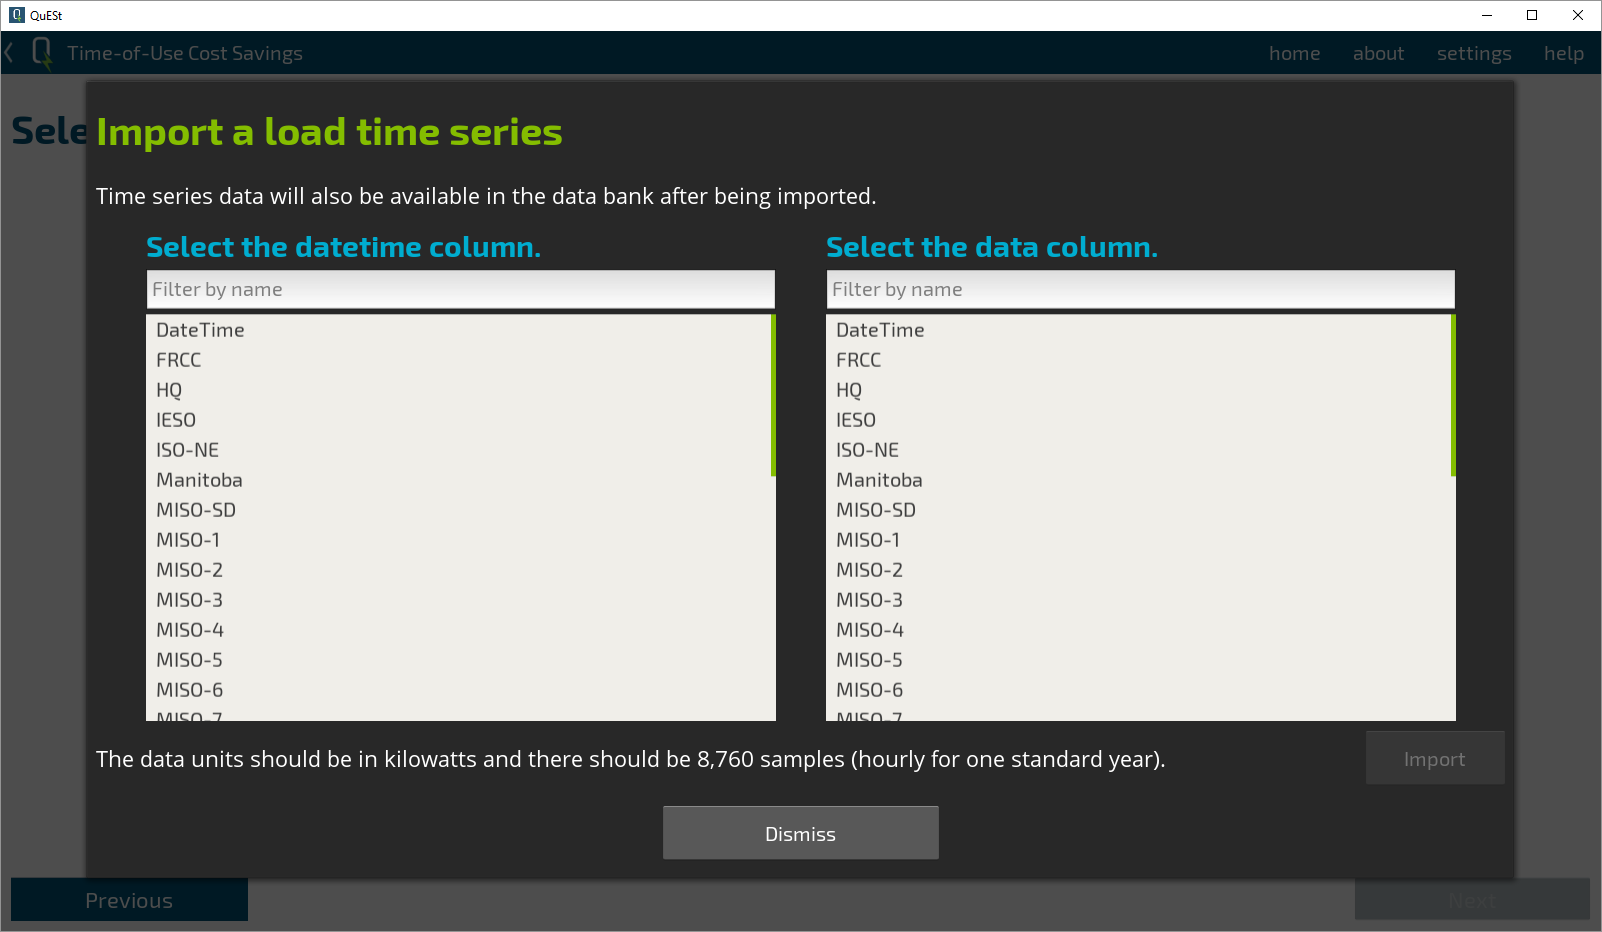
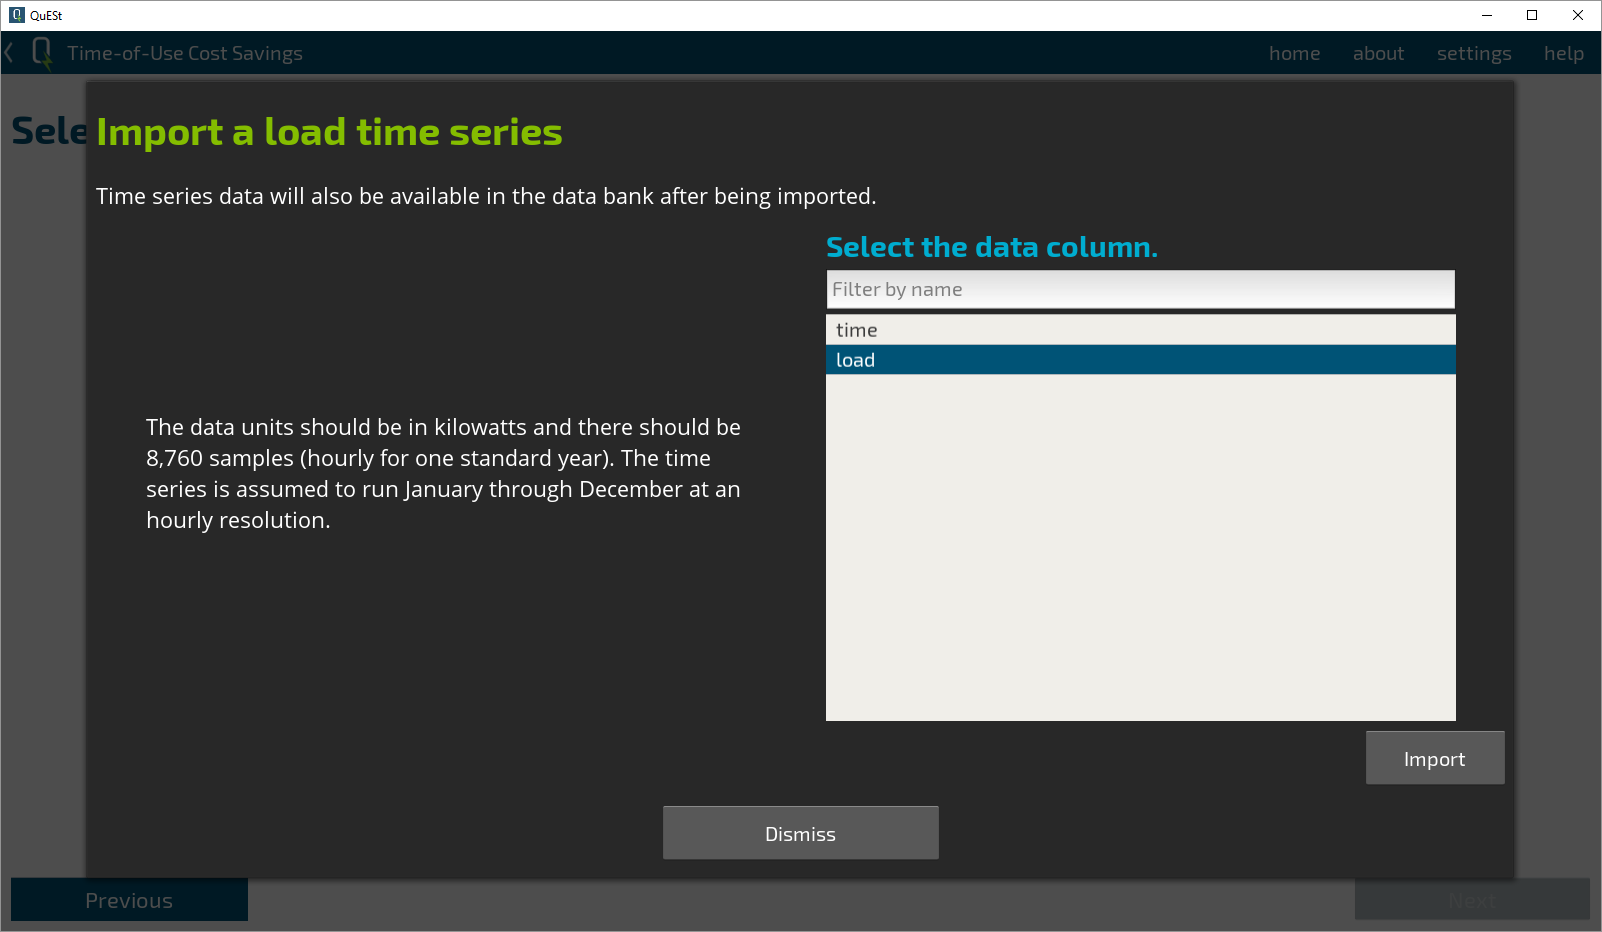
Updated changelog and readme for 1.2.f

diff --git a/main.py b/main.py
@@ -150,7 +150,7 @@ class AboutScreen(ModalView):
             elif value == 'sandia':
                 webbrowser.open('http://sandia.gov/')
         
-        version_statement = 'QuESt v1.2.f \n 2020.01.08'
+        version_statement = 'QuESt v1.2.f \n 2020.01.17'
 
         developed_by = '{app_name} is developed by the {ess} and {espr} departments at {sandia}.'.format(app_name=APP_NAME, ess=_ref_link('Energy Storage Technology and Systems', 'sandia-ess'), espr=_ref_link('Electric Power Systems Research', 'sandia-espr'), sandia=_ref_link('Sandia National Laboratories', 'sandia'))
 

diff --git a/README.md b/README.md
@@ -5,7 +5,7 @@
 
 Current release version: 1.2.f
 
-Release date: 01/08/20
+Release date: January 17, 2020
 
 ## Contact
 For issues and feedback we would appreciate it if you could use the "Issues" feature of this repository. This helps others join the discussion and helps us keep track of and document issues.
@@ -81,14 +81,8 @@ You can find the executable version with each release in the [**Releases**](http
 #### OSX, Linux
 Currently, we do not offer executable packages of QuESt for OSX or Linux operating systems. They are possible to package but we have not implemented those packaging processes yet. Installing from source code is an option.
 
-#### Solvers compatible with Pyomo
-When running the executable version of QuESt, a solver compatible for Pyomo is required to be installed and on your system path. Here are a few examples:
-
-##### Installing GLPK (for Windows)
-1. Download and extract the executables for Windows linked [here](http://winglpk.sourceforge.net/).
-2. The glpk_*.dll and glpsol.exe files are in the `w32` and `w64` subdirectories for 32-Bit and 64-Bit Windows, respectively. Select the pair for the appropriate version of Windows that you are using. You can place them in the same directory as the QuESt executable. 
-   * Alternatively, you can place those files to the `C:\windows\system32` directory in order to have them in your system path. This will make GLPK available for the rest of your system instead of just for QuESt.
-   * (When placing the files in your system path) Try running the command ``glpsol`` in the command prompt (Windows) or terminal (OSX). If you receive a message other than something like "command not found," it means the solver is successfully installed.
+#### Solvers
+When running the executable version of QuESt, a solver compatible for Pyomo is still required to be installed and on your system path. Please refer to the [solvers](#install-solvers) section for details.
 
 ### Installing from source code (advanced)
 For all platforms, you can instead install QuESt using the codebase in this repository.
@@ -115,17 +109,19 @@ You will want to obtain the codebase for QuESt. You can do that by downloading a
 4. Install a solver for Pyomo to use. See other sections for instructions on this.
 
 ### Solvers for Pyomo
-At least one solver compatible with Pyomo is required to solve optimization problems. Currently, a solver capable of solving linear programs is required. GLPK and CBC are suggested options for freely available solvers.
+<a id="install-solvers"></a>
+At least one solver compatible with Pyomo is required to solve optimization problems. Currently, a solver capable of solving linear programs is required. GLPK and CBC are suggested options for freely available solvers. Note that this list is not meant to be exhaustive but contains the most common viable options that we have tested. 
+
+#### Installing GLPK (for Windows)
+1. Download and extract the executables for Windows linked [here](http://winglpk.sourceforge.net/).
+2. The glpk_*.dll and glpsol.exe files are in the `w32` and `w64` subdirectories for 32-Bit and 64-Bit Windows, respectively. Select the pair for the appropriate version of Windows that you are using. You can place them in the same directory as the QuESt executable. 
+   * Alternatively, you can place those files to the `C:\windows\system32` directory in order to have them in your system path. This will make GLPK available for the rest of your system instead of just for QuESt.
+   * (When placing the files in your system path) Try running the command ``glpsol`` in the command prompt (Windows) or terminal (OSX). If you receive a message other than something like "command not found," it means the solver is successfully installed.
 
 #### Installing GLPK (for Windows via Anaconda)
 If you've installed Python using Anaconda, you may be able to install several solvers through Anaconda's package manager with the following (according to Pyomo's [installation instructions](https://pyomo.readthedocs.io/en/latest/installation.html)):
 
 ``conda install -c conda-forge glpk``
-
-#### Installing GLPK (for Windows)
-1. Download and extract the executables for Windows linked [here](http://winglpk.sourceforge.net/).
-2. The .dll and glpsol.exe files are in the `w32` and `w64` subdirectories for 32-Bit and 64-Bit Windows, respectively. These files need to be in the search path for Windows. The easiest way to do this is to move those files to the `C:\windows\system32` directory.
-3. Try running the command ``glpsol`` in the command prompt (Windows) or terminal (OSX). If you receive a message other than something like "command not found," it means the solver is successfully installed.
 
 #### Installing GLPK (for OSX)
 You will need to either build GLPK from source or install it using the [homebrew](https://brew.sh/) package manager. This [blog post](http://arnab-deka.com/posts/2010/02/installing-glpk-on-a-mac/) may be useful.
@@ -155,6 +151,15 @@ Alternatively, run ```main.py``` in a Python IDE of your choice.
 
 **NOTE: The current working directory must be where ``main.py`` is located (the root of the repository).**
 
+### Updating QuESt
+#### Installed from executable
+Download and extract the executable package as previously. You can copy over your `\data\` directory to transfer your data bank to the new version. You can also copy over your `\quest.ini` file to migrate your QuESt settings as well.
+
+#### Installed from source code
+If you cloned the GitHub repository, you can execute a `git pull` command in the terminal/cmd while in the root of the QuESt directory. If you haven't modified any source code, there should be no conflicts. The master branch of the repository is reserved for release versions and is the most stable.
+
+If you downloaded an archive of the master branch, you can download the latest release version as if it were a fresh install. You can drag and drop your old data directory so that you do not have to download all the data again if you would like. You can also move your `/quest.ini` file to migrate your settings.
+
 ## Frequently Asked Questions
 <a id="faq"></a>
 
@@ -174,15 +179,17 @@ Scaling may also have the effect of confusing Kivy of where a UI element is and 
 
 So far, this issue has been observed on a variety of laptops of both Windows and OSX varieties. Our suggestion is to disable OS level scaling or to connect to an external display and try to launch QuESt on it.
 
-> How do I update QuESt?
-
-If you cloned the GitHub repository, you can execute a `git pull` command in the terminal/cmd while in the root of the QuESt directory. If you haven't modified any source code, there should be no conflicts. The master branch of the repository is reserved for release versions and is the most stable.
-
-If you downloaded an archive of the master branch or a release version archive, you can download the latest release version as if it were a fresh install. You can drag and drop your old data directory so that you do not have to download all the data again if you would like. You can also move your `/quest.ini` file to migrate your settings.
-
 > Are there any help tutorials/manuals/etc. for QuESt?
 
-We strive to make QuESt as lightweight and intuitive to use as possible through its design. In version 1.2.f, we integrated additional help carousels within QuESt to provide additional details throughout the software. We currently do not intend to make a comprehensive manual but may share presentation materials such as mini tutorials that may be of interest. Additionally, we aim to compile the publications and technical writings on which QuESt is based.
+We strive to make QuESt as lightweight and intuitive to use as possible through its design. In version 1.2.f, we integrated additional help carousels within QuESt to provide additional details throughout the software. We currently do not intend to make a comprehensive manual but may share presentation materials such as mini tutorials that may be of interest.
+
+> I want to know more about how the algorithms work/how the results are computed.
+
+Please see the [references](#references) for relevant publications describing the models that were implemented into QuESt. As we further develop the API and documentation, we will aggregate formulation details in those documents.
+
+> I'm interested in a tool/capability that is not currently in QuESt.
+
+Feel free to drop us a line! User feedback helps shape our development goals and priorities and we would welcome hearing what users would like to have.
 
 ### QuESt Data Manager
 <a id="faq-data-manager"></a>
@@ -274,7 +281,7 @@ Due to (rolling) data availability, data for certain periods may be absent. For 
 
 > Why can I only adjust [x] parameters for my energy storage device?
 
-To streamline the user experience in the Wizard, we decided to reduce the range of options available. Please try the "Single Run" and "Batch Runs" interfaces for fuller flexibility.
+To streamline the user experience in the Wizard, we decided to reduce the range of options available. Please try the "Batch Runs" interface for fuller flexibility.
 
 > The pro forma report's appearance doesn't seem quite right/there is a bunch of cryptic commands underneath the "Optimization formulation" section.
 
@@ -301,7 +308,7 @@ This is a known issue. You can try to generate the report again in order to fix 
 
 > I want to use my own rate structure / PV profile / load profile.
 
-We are planning on implementing interfaces for importing your own data. However, it is possible to bring your own data.
+Since version 1.2.f, you can import your own time series data (PV and load profiles) through the user interface. You can also import your own data by adding to the QuESt data bank manually. See below for details.
 
 #### Rate structure
 The rate structure files are stored as .json files in `/data/rate_structures/` after being downloaded through QuESt Data Manager. You can add a new file following the format of one downloaded using QuESt Data Manager. The general structure of the .json object is as follows:
@@ -339,3 +346,36 @@ The load profile files are stored as .csv files in `/data/load/` after being dow
 The format is basically two columns; the "Date/Time" column gives the month, day, and hour and the second column is the hourly kW load. The "Date/Time" columna is used for parsing the correct data for a selected month, for example. A year is not provided because the building data is simulated based on TMY3 (typical meteorological year).
 
 Once new files are added to the `data` bank appropriately, they should be picked up in the relevant applications when you are prompted to make a selection.
+
+## References
+<a id="references"></a>
+Nguyen, Tu A., David A. Copp, and Raymond H. Byrne. "Stacking Revenue of Energy Storage System from Resilience, T&D Deferral and Arbitrage." 2019 IEEE Power & Energy Society General Meeting (PESGM). IEEE, 2019.
+
+Byrne, Raymond H., Tu A. Nguyen, and Ricky J. Concepcion. "Opportunities for Energy Storage in CAISO." 2018 IEEE Power & Energy Society General Meeting (PESGM). IEEE, 2018.
+[Available online](https://www.osti.gov/servlets/purl/1489129).
+
+Byrne, Raymond H., Tu Anh Nguyen, and Ricky James Concepcion. Opportunities for Energy Storage in CAISO. No. SAND2018-5272C. Sandia National Lab.(SNL-NM), Albuquerque, NM (United States), 2018.
+[Available online](https://www.osti.gov/servlets/purl/1515132).
+
+Concepcion, Ricky J., Felipe Wilches-Bernal, and Raymond H. Byrne. "Revenue Opportunities for Electric Storage Resources in the Southwest Power Pool Integrated Marketplace." 2018 IEEE Power & Energy Society General Meeting (PESGM). IEEE, 2018.
+[Available online](https://www.osti.gov/servlets/purl/1574578).
+
+Wilches-Bernal, Felipe, Ricky J. Concepcion, and Raymond H. Byrne. "Electrical Energy Storage Participation in the NYISO Electricity and Frequency Regulation Markets." 2018 IEEE Power & Energy Society General Meeting (PESGM). IEEE, 2018.
+
+Nguyen, Tu A., and Raymond H. Byrne. "Maximizing the cost-savings for time-of-use and net-metering customers using behind-the-meter energy storage systems." 2017 North American Power Symposium (NAPS). IEEE, 2017.
+[Available online](https://www.osti.gov/servlets/purl/1431654).
+
+Nguyen, Tu A., et al. "Maximizing revenue from electrical energy storage in MISO energy & frequency regulation markets." 2017 IEEE Power & Energy Society General Meeting. IEEE, 2017.
+[Available online](https://www.osti.gov/servlets/purl/1408956).
+
+Byrne, Raymond H., Ricky J. Concepcion, and César A. Silva-Monroy. "Estimating potential revenue from electrical energy storage in PJM." 2016 IEEE Power and Energy Society General Meeting (PESGM). IEEE, 2016.
+[Available online](https://www.osti.gov/servlets/purl/1239334).
+
+Byrne, Raymond H., et al. "The value proposition for energy storage at the Sterling Municipal Light Department." 2017 IEEE Power & Energy Society General Meeting. IEEE, 2017.
+[Available online](https://www.osti.gov/servlets/purl/1427423).
+
+Byrne, Raymond H., et al. "Energy management and optimization methods for grid energy storage systems." IEEE Access 6 (2017): 13231-13260.
+[Available online](https://ieeexplore.ieee.org/abstract/document/8016321).
+
+Byrne, Raymond H., and César A. Silva-Monroy. "Potential revenue from electrical energy storage in ERCOT: The impact of location and recent trends." 2015 IEEE Power & Energy Society General Meeting. IEEE, 2015.
+[Available online](https://www.osti.gov/servlets/purl/1244909).

diff --git a/CHANGELOG.md b/CHANGELOG.md
@@ -6,7 +6,7 @@
   * <img src="patch_note_resources/patch-quickstart-tour.png" alt="A quick-start tour is now available from the home index screen of QuESt." width=600px margin="auto" />
   * This tour consists of a sequence of slides explaining the general usage of QuESt and is aimed to help new or returning users get oriented.
   * <img src="patch_note_resources/patch-quickstart-tour2.png" alt="Opening the quick-start tour opens a 'help' view which contains a sequence of slides explaining QuESt in general." width=600px margin="auto" />
-* Help carousel modal views are now available throughout QuESt. They may be accessed from the top navigation bar whenever available.
+* Help carousel modal views (or "help" for short) are now available throughout QuESt. They may be accessed from the top navigation bar whenever available.
   * <img src="patch_note_resources/patch-help-views.png" alt="Help carousels can be accessed from the top navigation bar whenever they are available." width=600px margin="auto" />
   * Opening the help carousel displays a sequence of slides similar to those from the quick-start tour. The content of the help carousel is relevant to wherever it is accessed. For example, opening the help carousel while in QuESt Data Manager will show help related to that application.
   * <img src="patch_note_resources/patch-help-views2.png" alt="The help carousel for QuESt Data Manager." width=600px margin="auto" />
@@ -20,8 +20,8 @@
     * <img src="patch_note_resources/patch-data-importer2.png" alt="The data importer's file chooser is used to select the CSV file to use." width=600px margin="auto" /> 
     * Folders can be expanded by clicking the dropdown arrow to the left of the folder name. Folders can be entered by clicking on the folder name. Clicking the "..\" at the top of the current directory listing will navigate up one directory level. 
     * To finalize file selection, double-click on the desired file name or click on the file name and click on the 'Select' button.
-    * <img src="patch_note_resources/patch-data-importer3.png" alt="The datetime and data columns from the selected file must be specified." width=600px margin="auto" />
-    * Next, the datetime and data columns must be selected to determine the time series that will be used. The requirements for the data will vary among the different data importers, but generally, for hourly data a time series of length 8,760 (for one standard year) is expected. Please refer to the description at the bottom of the data importer window for details.
+    * <img src="patch_note_resources/patch-data-importer3.png" alt="The data column from the selected file must be specified." width=600px margin="auto" />
+    * Next, the data column must be specified to determine the time series that will be used. The requirements for the data will vary among the different data importers, but generally, for hourly data a time series of length 8,760 (for one standard year) is expected. Please refer to the accompoanying description in the data importer window for specific details.
     * If the selected time series passes validation, the data importer will report a successful import. Upon returning to the current application, the data importer button will change appearance to indicate that time series data was imported and will be used in the current application. 
     * <img src="patch_note_resources/patch-data-importer4.png" alt="The datetime and data columns from the selected file must be specified." width=600px margin="auto" />
     * Note that any data imported will be made available for future use in the QuESt data bank. The data may be denoted by an "imported/" tag (in the case of load profile data) and the name will be based on the originating CSV file name and the data column specified during the import process.
@@ -34,6 +34,7 @@
 ### Known issues
 * An issue where dragging through slides in help carousels or similar widgets instead of using the arrow navigation buttons does not update the "progress indicator" bubbles for the slides.
   * Clicking the navigation buttons will properly update the bubbles.
+* An issue where graphics/charts for HTML reports generated in application wizards would not save and render properly. A blank or incomplete figure would be saved and displayed in the report. We have increased the time for rendering and saving each figure during the report generation process in order to address this issue.
 
 ## Patch 1.2.e
 ### QuESt
